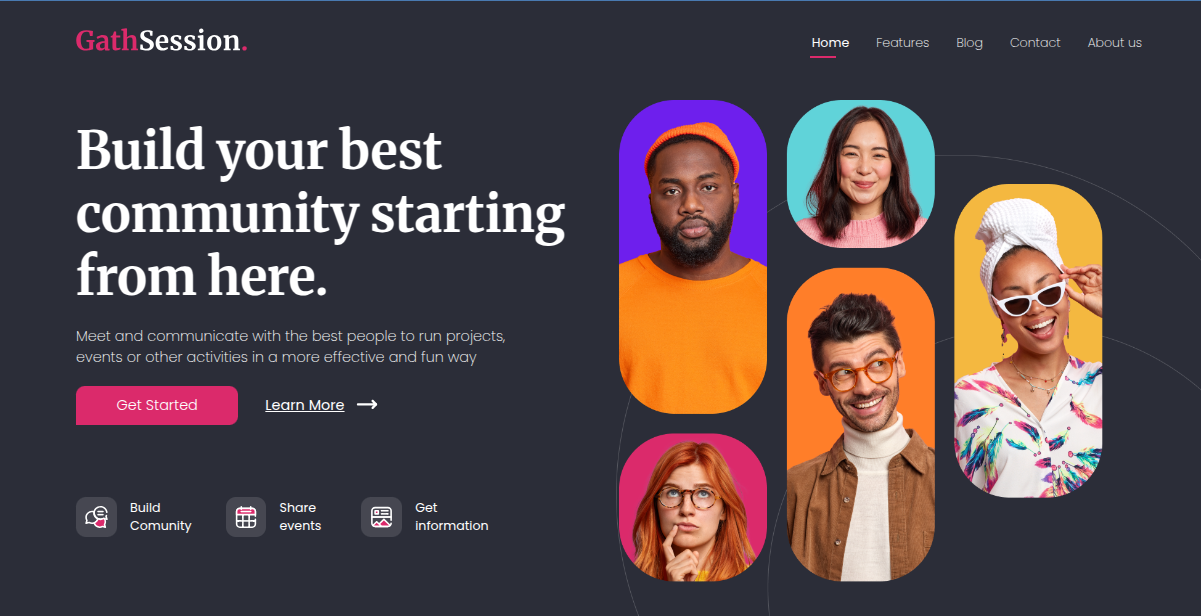
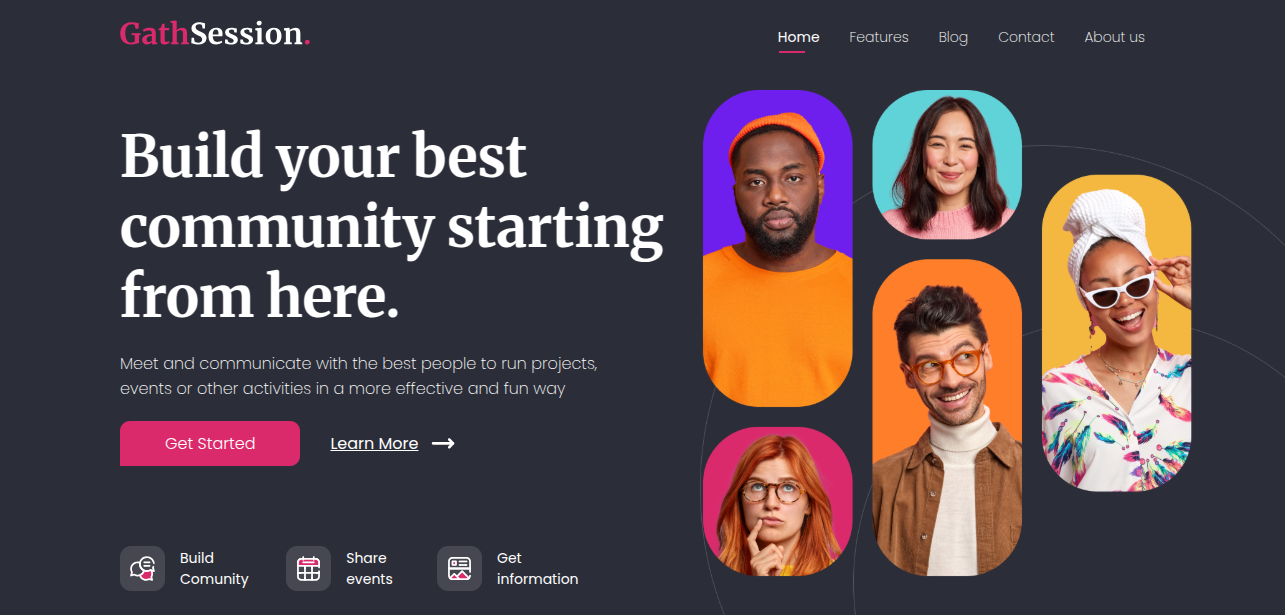
mejorando hero

diff --git a/code/sass/layout/_hero.scss b/code/sass/layout/_hero.scss
@@ -1,17 +1,20 @@
 .hero {
+    display: flex;
+    gap: 20px;
 
     &-title {
         font-size: 57px;
         color: $white;
         font-family: $hero-font;
         line-height: 70px;
+        max-width: 60%;
     }
     &-text {
         margin-top: 19px;
         font-size: 16px;
         color: $white;
         font-weight: 100;
-        max-width: 67%;
+        max-width: 47%;
     }
 
     &-buttons {
@@ -23,6 +26,7 @@
         color: $white;
      }
 
+
     .hero-link {
         padding-left: 30px;
         display: flex;
@@ -32,5 +36,16 @@
             position: relative;
         };
     }
+    }
+
+    .hero-image {
+        position: absolute;
+        max-width: 46%;
+        left: 700px;
+        top: 100px;
+
+        @include breakpoint(desktopxl) {
+            left: 930px;
+        }
     }
 }

diff --git a/code/index.html b/code/index.html
@@ -25,6 +25,7 @@
     <main>
       <div class="container">
         <section class="hero">
+          <div class="hero-info">
           <h1 class="hero-title">Build your best community starting from here.</h1>
           <p class="hero-text">Meet and communicate with the best people to run projects, 
             events or other activities in a more effective and fun way</p>
@@ -32,6 +33,8 @@
             <a class="hero-button-start" href="#">Get Started</a>
              <a class="hero-link" href="#">Learn More <img src="img/arrow.svg" alt=""></a>
           </div>
+        </div>
+          <img src="img/background-image.png" class="hero-image" alt="">
         </section>
 
         <section class="services">

diff --git a/code/sass/layout/_body.scss b/code/sass/layout/_body.scss
@@ -6,13 +6,5 @@ body {
     overflow-x: hidden;
     background-color: $background-color-principal;
     font-family: $primary-font;
-    background-image: url("img/background-image.png");
-    background-repeat:no-repeat;
-    background-position: 100% 98%;  /*720px 110px;*/
-    background-size: 45%;
-    background-attachment: local;
-    
-    @include breakpoint(desktopxl) {
-        background-position: 100% 120px;
-    }
+   
 } 

diff --git a/code/sass/components/_container.scss b/code/sass/components/_container.scss
@@ -1,4 +1,4 @@
 .container {
     margin-top: 70px;
-    max-width: 60%;
+    max-width: 100%;
 }
